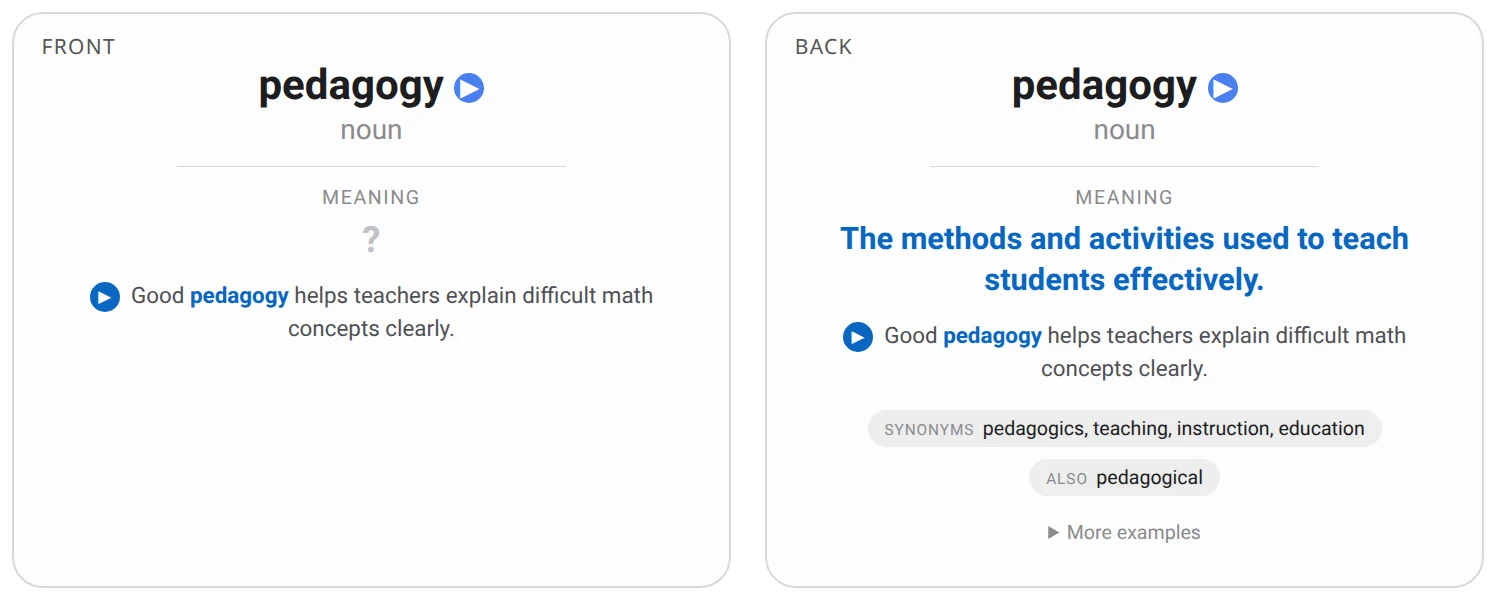
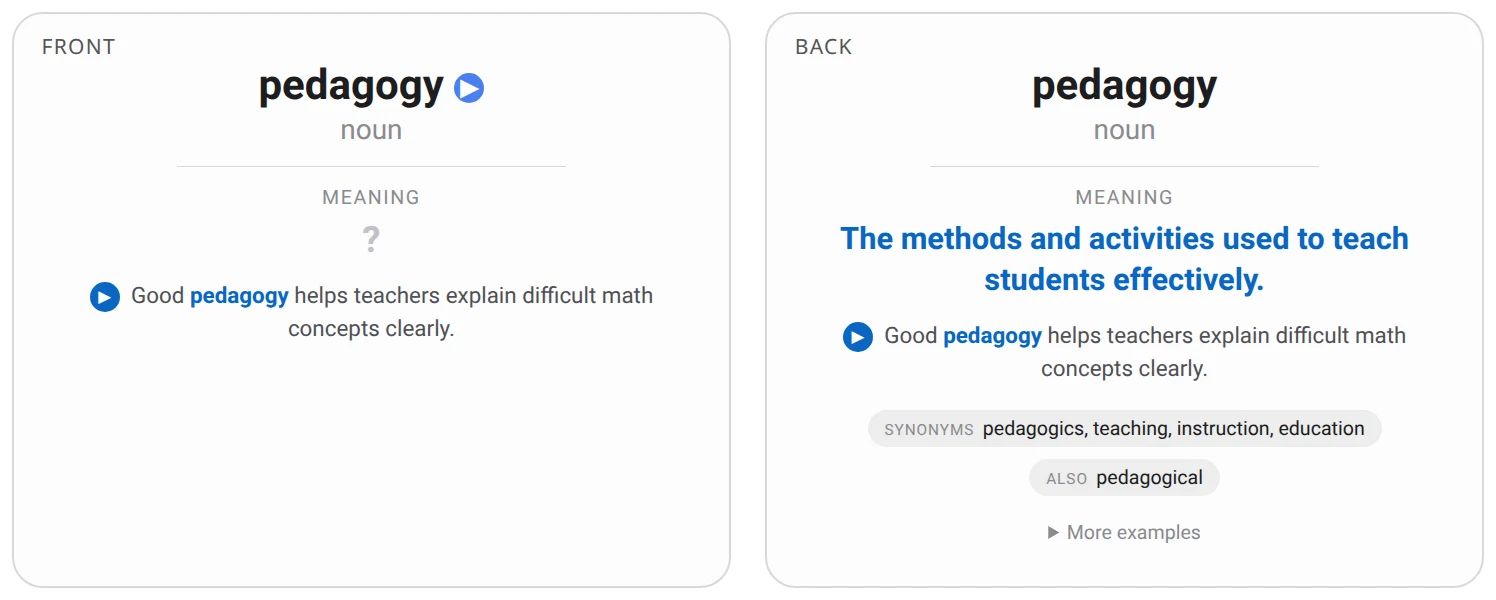
Play the word once on the meaning card

Changed region(s): [[0.6765, 0.12, 0.8302, 0.18]]

diff --git a/src/lurch/templates/meaning_back.html b/src/lurch/templates/meaning_back.html
@@ -1,4 +1,4 @@
-<div class="entity">{{Word}} {{WordAudio}}</div>
+<div class="entity">{{Word}}</div>
 <div class="subtitle">{{Subtitle}}</div>
 <hr class="divider">
 <div class="label">Meaning</div>

diff --git a/README.md b/README.md
@@ -45,7 +45,7 @@ meanings are listed on the back, with further examples under "More examples":
 
 ![Meaning card for constitution](docs/samples/several-meanings.webp)
 
-The word is read aloud when a card shows it; a sentence plays only when you press its ▶ button.
+The word is read aloud once, automatically (when the Meaning card appears, or when you reveal the Word card); a sentence plays only when you press its ▶ button.
 
 ## Adding words later
 
